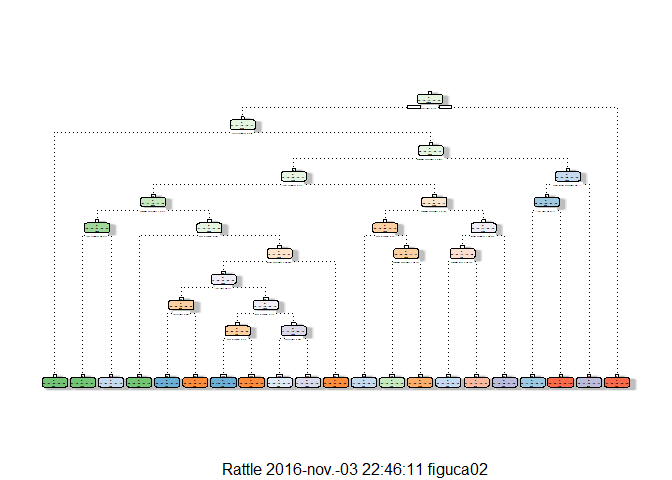
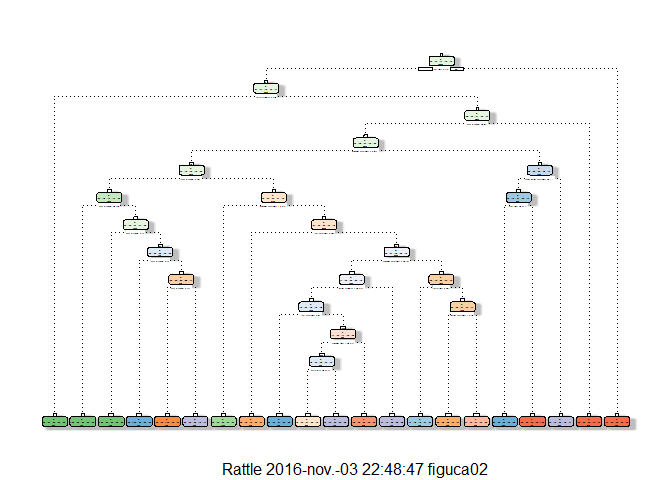
Third try

diff --git a/index.html b/index.html
@@ -140,7 +140,7 @@ names(trainingset)</code></pre>
 <pre class="r"><code>set.seed(1234)
 modelfit&lt;-rpart(classe~., data=trainingset, method=&quot;class&quot;)
 fancyRpartPlot(modelfit)</code></pre>
[2 lines of base64/hex data omitted]
 <p>Predicting on the training dataset:</p>
 <pre class="r"><code>set.seed(1234)
 predictmodelfit&lt;-predict(modelfit, data=trainingset, type=&quot;class&quot;)
@@ -149,33 +149,33 @@ confusionMatrix(predictmodelfit,trainingset$classe)</code></pre>
 ## 
 ##           Reference
 ## Prediction    A    B    C    D    E
-##          A 3357  299   40  114  170
-##          B  264 1775  229  212  267
-##          C   20  160 1923  337  145
-##          D  217  343  138 1509  311
-##          E   48   81   66   80 1632
+##          A 3450  323   96  102   24
+##          B  115 1589  110   48   56
+##          C  183  370 2121  412  193
+##          D  127  288   43 1422  174
+##          E   31   88   26  268 2078
 ## 
 ## Overall Statistics
-##                                           
-##                Accuracy : 0.7422          
-##                  95% CI : (0.7348, 0.7495)
-##     No Information Rate : 0.2843          
-##     P-Value [Acc &gt; NIR] : &lt; 2.2e-16       
-##                                           
-##                   Kappa : 0.6739          
-##  Mcnemar's Test P-Value : &lt; 2.2e-16       
+##                                          
+##                Accuracy : 0.776          
+##                  95% CI : (0.7689, 0.783)
+##     No Information Rate : 0.2843         
+##     P-Value [Acc &gt; NIR] : &lt; 2.2e-16      
+##                                          
+##                   Kappa : 0.7168         
+##  Mcnemar's Test P-Value : &lt; 2.2e-16      
 ## 
 ## Statistics by Class:
 ## 
 ##                      Class: A Class: B Class: C Class: D Class: E
-## Sensitivity            0.8594   0.6678   0.8026   0.6701   0.6463
-## Specificity            0.9366   0.9123   0.9416   0.9121   0.9755
-## Pos Pred Value         0.8435   0.6462   0.7439   0.5993   0.8558
-## Neg Pred Value         0.9437   0.9197   0.9576   0.9338   0.9245
+## Sensitivity            0.8833   0.5978   0.8852   0.6314   0.8230
+## Specificity            0.9446   0.9703   0.8979   0.9450   0.9632
+## Pos Pred Value         0.8636   0.8285   0.6468   0.6923   0.8342
+## Neg Pred Value         0.9532   0.9096   0.9737   0.9290   0.9603
 ## Prevalence             0.2843   0.1935   0.1744   0.1639   0.1838
-## Detection Rate         0.2444   0.1292   0.1400   0.1098   0.1188
-## Detection Prevalence   0.2897   0.2000   0.1882   0.1833   0.1388
-## Balanced Accuracy      0.8980   0.7900   0.8721   0.7911   0.8109</code></pre>
+## Detection Rate         0.2511   0.1157   0.1544   0.1035   0.1513
+## Detection Prevalence   0.2908   0.1396   0.2387   0.1495   0.1813
+## Balanced Accuracy      0.9139   0.7841   0.8916   0.7882   0.8931</code></pre>
 <p>Predicting on the test set:</p>
 <pre class="r"><code>set.seed(1234)
 predicttest&lt;-predict(modelfit, newdata=testingset, type=&quot;class&quot;)
@@ -184,58 +184,58 @@ confusionMatrix(predicttest, testingset$classe)</code></pre>
 ## 
 ##           Reference
 ## Prediction    A    B    C    D    E
-##          A 1407  143   14   33   69
-##          B  142  773  103  103  135
-##          C   11   58  828  139   70
-##          D   86  135   58  646  134
-##          E   28   30   23   43  674
+##          A 1464  167   43   45   14
+##          B   61  647   36   23   21
+##          C   83  156  918  210   85
+##          D   51  136   16  573   72
+##          E   15   33   13  113  890
 ## 
 ## Overall Statistics
-##                                          
-##                Accuracy : 0.7354         
-##                  95% CI : (0.724, 0.7467)
-##     No Information Rate : 0.2845         
-##     P-Value [Acc &gt; NIR] : &lt; 2.2e-16      
-##                                          
-##                   Kappa : 0.6655         
-##  Mcnemar's Test P-Value : &lt; 2.2e-16      
+##                                           
+##                Accuracy : 0.7633          
+##                  95% CI : (0.7522, 0.7741)
+##     No Information Rate : 0.2845          
+##     P-Value [Acc &gt; NIR] : &lt; 2.2e-16       
+##                                           
+##                   Kappa : 0.7005          
+##  Mcnemar's Test P-Value : &lt; 2.2e-16       
 ## 
 ## Statistics by Class:
 ## 
 ##                      Class: A Class: B Class: C Class: D Class: E
-## Sensitivity            0.8405   0.6787   0.8070   0.6701   0.6229
-## Specificity            0.9385   0.8982   0.9428   0.9161   0.9742
-## Pos Pred Value         0.8445   0.6154   0.7486   0.6100   0.8446
-## Neg Pred Value         0.9367   0.9209   0.9586   0.9341   0.9198
-## Prevalence             0.2845   0.1935   0.1743   0.1638   0.1839
-## Detection Rate         0.2391   0.1314   0.1407   0.1098   0.1145
-## Detection Prevalence   0.2831   0.2134   0.1879   0.1799   0.1356
-## Balanced Accuracy      0.8895   0.7884   0.8749   0.7931   0.7986</code></pre>
+## Sensitivity            0.8746   0.5680   0.8947  0.59440   0.8226
+## Specificity            0.9361   0.9703   0.8901  0.94412   0.9638
+## Pos Pred Value         0.8448   0.8211   0.6322  0.67571   0.8365
+## Neg Pred Value         0.9494   0.9035   0.9756  0.92237   0.9602
+## Prevalence             0.2845   0.1935   0.1743  0.16381   0.1839
+## Detection Rate         0.2488   0.1099   0.1560  0.09737   0.1512
+## Detection Prevalence   0.2945   0.1339   0.2467  0.14410   0.1808
+## Balanced Accuracy      0.9053   0.7692   0.8924  0.76926   0.8932</code></pre>
 <p>Now, for the test:</p>
 <pre class="r"><code>set.seed(1234)
 predictnewtest&lt;-predict(modelfit, newdata=testing)
 predictnewtest</code></pre>
-<pre><code>##             A          B           C          D           E
-## 1  0.10894942 0.57976654 0.000000000 0.00000000 0.311284047
-## 2  0.81092695 0.15469613 0.014732965 0.01289134 0.006752609
-## 3  0.02156334 0.56603774 0.231805930 0.08086253 0.099730458
-## 4  0.83137673 0.00000000 0.000000000 0.06616862 0.102454642
-## 5  0.83137673 0.00000000 0.000000000 0.06616862 0.102454642
-## 6  0.01220256 0.07870653 0.632092739 0.18852959 0.088468578
-## 7  0.06951027 0.13902054 0.039494471 0.67298578 0.078988942
-## 8  0.12481962 0.12409812 0.080086580 0.52308802 0.147907648
-## 9  0.99365942 0.00634058 0.000000000 0.00000000 0.000000000
-## 10 0.81092695 0.15469613 0.014732965 0.01289134 0.006752609
-## 11 0.01220256 0.07870653 0.632092739 0.18852959 0.088468578
-## 12 0.02156334 0.56603774 0.231805930 0.08086253 0.099730458
-## 13 0.51612903 0.12903226 0.051612903 0.10000000 0.203225806
-## 14 0.99365942 0.00634058 0.000000000 0.00000000 0.000000000
-## 15 0.07222222 0.15000000 0.122222222 0.14814815 0.507407407
-## 16 0.12481962 0.12409812 0.080086580 0.52308802 0.147907648
-## 17 0.83137673 0.00000000 0.000000000 0.06616862 0.102454642
-## 18 0.11144578 0.40963855 0.009036145 0.31325301 0.156626506
-## 19 0.11144578 0.40963855 0.009036145 0.31325301 0.156626506
-## 20 0.02156334 0.56603774 0.231805930 0.08086253 0.099730458</code></pre>
+<pre><code>##              A           B          C          D          E
+## 1  0.000000000 1.000000000 0.00000000 0.00000000 0.00000000
+## 2  0.652624757 0.203499676 0.06221646 0.06610499 0.01555412
+## 3  0.178631052 0.275459098 0.31051753 0.08013356 0.15525876
+## 4  1.000000000 0.000000000 0.00000000 0.00000000 0.00000000
+## 5  1.000000000 0.000000000 0.00000000 0.00000000 0.00000000
+## 6  0.025326170 0.042210284 0.63699156 0.22716807 0.06830391
+## 7  0.124000000 0.164000000 0.03500000 0.63700000 0.04000000
+## 8  0.124000000 0.164000000 0.03500000 0.63700000 0.04000000
+## 9  0.991964286 0.008035714 0.00000000 0.00000000 0.00000000
+## 10 0.652624757 0.203499676 0.06221646 0.06610499 0.01555412
+## 11 0.025326170 0.042210284 0.63699156 0.22716807 0.06830391
+## 12 0.178631052 0.275459098 0.31051753 0.08013356 0.15525876
+## 13 0.007792208 0.194805195 0.06753247 0.23116883 0.49870130
+## 14 0.991964286 0.008035714 0.00000000 0.00000000 0.00000000
+## 15 0.043103448 0.037356322 0.00000000 0.24137931 0.67816092
+## 16 0.043103448 0.037356322 0.00000000 0.24137931 0.67816092
+## 17 1.000000000 0.000000000 0.00000000 0.00000000 0.00000000
+## 18 0.652624757 0.203499676 0.06221646 0.06610499 0.01555412
+## 19 0.000000000 1.000000000 0.00000000 0.00000000 0.00000000
+## 20 0.077702703 0.824324324 0.01013514 0.05067568 0.03716216</code></pre>
 </div>
 
 

diff --git a/index.md b/index.md
@@ -125,33 +125,33 @@ confusionMatrix(predictmodelfit,trainingset$classe)
 ## 
 ##           Reference
 ## Prediction    A    B    C    D    E
-##          A 3357  299   40  114  170
-##          B  264 1775  229  212  267
-##          C   20  160 1923  337  145
-##          D  217  343  138 1509  311
-##          E   48   81   66   80 1632
+##          A 3450  323   96  102   24
+##          B  115 1589  110   48   56
+##          C  183  370 2121  412  193
+##          D  127  288   43 1422  174
+##          E   31   88   26  268 2078
 ## 
 ## Overall Statistics
-##                                           
-##                Accuracy : 0.7422          
-##                  95% CI : (0.7348, 0.7495)
-##     No Information Rate : 0.2843          
-##     P-Value [Acc > NIR] : < 2.2e-16       
-##                                           
-##                   Kappa : 0.6739          
-##  Mcnemar's Test P-Value : < 2.2e-16       
+##                                          
+##                Accuracy : 0.776          
+##                  95% CI : (0.7689, 0.783)
+##     No Information Rate : 0.2843         
+##     P-Value [Acc > NIR] : < 2.2e-16      
+##                                          
+##                   Kappa : 0.7168         
+##  Mcnemar's Test P-Value : < 2.2e-16      
 ## 
 ## Statistics by Class:
 ## 
 ##                      Class: A Class: B Class: C Class: D Class: E
-## Sensitivity            0.8594   0.6678   0.8026   0.6701   0.6463
-## Specificity            0.9366   0.9123   0.9416   0.9121   0.9755
-## Pos Pred Value         0.8435   0.6462   0.7439   0.5993   0.8558
-## Neg Pred Value         0.9437   0.9197   0.9576   0.9338   0.9245
+## Sensitivity            0.8833   0.5978   0.8852   0.6314   0.8230
+## Specificity            0.9446   0.9703   0.8979   0.9450   0.9632
+## Pos Pred Value         0.8636   0.8285   0.6468   0.6923   0.8342
+## Neg Pred Value         0.9532   0.9096   0.9737   0.9290   0.9603
 ## Prevalence             0.2843   0.1935   0.1744   0.1639   0.1838
-## Detection Rate         0.2444   0.1292   0.1400   0.1098   0.1188
-## Detection Prevalence   0.2897   0.2000   0.1882   0.1833   0.1388
-## Balanced Accuracy      0.8980   0.7900   0.8721   0.7911   0.8109
+## Detection Rate         0.2511   0.1157   0.1544   0.1035   0.1513
+## Detection Prevalence   0.2908   0.1396   0.2387   0.1495   0.1813
+## Balanced Accuracy      0.9139   0.7841   0.8916   0.7882   0.8931
 ```
 
 
@@ -169,33 +169,33 @@ confusionMatrix(predicttest, testingset$classe)
 ## 
 ##           Reference
 ## Prediction    A    B    C    D    E
-##          A 1407  143   14   33   69
-##          B  142  773  103  103  135
-##          C   11   58  828  139   70
-##          D   86  135   58  646  134
-##          E   28   30   23   43  674
+##          A 1464  167   43   45   14
+##          B   61  647   36   23   21
+##          C   83  156  918  210   85
+##          D   51  136   16  573   72
+##          E   15   33   13  113  890
 ## 
 ## Overall Statistics
-##                                          
-##                Accuracy : 0.7354         
-##                  95% CI : (0.724, 0.7467)
-##     No Information Rate : 0.2845         
-##     P-Value [Acc > NIR] : < 2.2e-16      
-##                                          
-##                   Kappa : 0.6655         
-##  Mcnemar's Test P-Value : < 2.2e-16      
+##                                           
+##                Accuracy : 0.7633          
+##                  95% CI : (0.7522, 0.7741)
+##     No Information Rate : 0.2845          
+##     P-Value [Acc > NIR] : < 2.2e-16       
+##                                           
+##                   Kappa : 0.7005          
+##  Mcnemar's Test P-Value : < 2.2e-16       
 ## 
 ## Statistics by Class:
 ## 
 ##                      Class: A Class: B Class: C Class: D Class: E
-## Sensitivity            0.8405   0.6787   0.8070   0.6701   0.6229
-## Specificity            0.9385   0.8982   0.9428   0.9161   0.9742
-## Pos Pred Value         0.8445   0.6154   0.7486   0.6100   0.8446
-## Neg Pred Value         0.9367   0.9209   0.9586   0.9341   0.9198
-## Prevalence             0.2845   0.1935   0.1743   0.1638   0.1839
-## Detection Rate         0.2391   0.1314   0.1407   0.1098   0.1145
-## Detection Prevalence   0.2831   0.2134   0.1879   0.1799   0.1356
-## Balanced Accuracy      0.8895   0.7884   0.8749   0.7931   0.7986
+## Sensitivity            0.8746   0.5680   0.8947  0.59440   0.8226
+## Specificity            0.9361   0.9703   0.8901  0.94412   0.9638
+## Pos Pred Value         0.8448   0.8211   0.6322  0.67571   0.8365
+## Neg Pred Value         0.9494   0.9035   0.9756  0.92237   0.9602
+## Prevalence             0.2845   0.1935   0.1743  0.16381   0.1839
+## Detection Rate         0.2488   0.1099   0.1560  0.09737   0.1512
+## Detection Prevalence   0.2945   0.1339   0.2467  0.14410   0.1808
+## Balanced Accuracy      0.9053   0.7692   0.8924  0.76926   0.8932
 ```
 
 
@@ -209,25 +209,25 @@ predictnewtest
 ```
 
 ```
-##             A          B           C          D           E
-## 1  0.10894942 0.57976654 0.000000000 0.00000000 0.311284047
-## 2  0.81092695 0.15469613 0.014732965 0.01289134 0.006752609
-## 3  0.02156334 0.56603774 0.231805930 0.08086253 0.099730458
-## 4  0.83137673 0.00000000 0.000000000 0.06616862 0.102454642
-## 5  0.83137673 0.00000000 0.000000000 0.06616862 0.102454642
-## 6  0.01220256 0.07870653 0.632092739 0.18852959 0.088468578
-## 7  0.06951027 0.13902054 0.039494471 0.67298578 0.078988942
-## 8  0.12481962 0.12409812 0.080086580 0.52308802 0.147907648
-## 9  0.99365942 0.00634058 0.000000000 0.00000000 0.000000000
-## 10 0.81092695 0.15469613 0.014732965 0.01289134 0.006752609
-## 11 0.01220256 0.07870653 0.632092739 0.18852959 0.088468578
-## 12 0.02156334 0.56603774 0.231805930 0.08086253 0.099730458
-## 13 0.51612903 0.12903226 0.051612903 0.10000000 0.203225806
-## 14 0.99365942 0.00634058 0.000000000 0.00000000 0.000000000
-## 15 0.07222222 0.15000000 0.122222222 0.14814815 0.507407407
-## 16 0.12481962 0.12409812 0.080086580 0.52308802 0.147907648
-## 17 0.83137673 0.00000000 0.000000000 0.06616862 0.102454642
-## 18 0.11144578 0.40963855 0.009036145 0.31325301 0.156626506
-## 19 0.11144578 0.40963855 0.009036145 0.31325301 0.156626506
-## 20 0.02156334 0.56603774 0.231805930 0.08086253 0.099730458
+##              A           B          C          D          E
+## 1  0.000000000 1.000000000 0.00000000 0.00000000 0.00000000
+## 2  0.652624757 0.203499676 0.06221646 0.06610499 0.01555412
+## 3  0.178631052 0.275459098 0.31051753 0.08013356 0.15525876
+## 4  1.000000000 0.000000000 0.00000000 0.00000000 0.00000000
+## 5  1.000000000 0.000000000 0.00000000 0.00000000 0.00000000
+## 6  0.025326170 0.042210284 0.63699156 0.22716807 0.06830391
+## 7  0.124000000 0.164000000 0.03500000 0.63700000 0.04000000
+## 8  0.124000000 0.164000000 0.03500000 0.63700000 0.04000000
+## 9  0.991964286 0.008035714 0.00000000 0.00000000 0.00000000
+## 10 0.652624757 0.203499676 0.06221646 0.06610499 0.01555412
+## 11 0.025326170 0.042210284 0.63699156 0.22716807 0.06830391
+## 12 0.178631052 0.275459098 0.31051753 0.08013356 0.15525876
+## 13 0.007792208 0.194805195 0.06753247 0.23116883 0.49870130
+## 14 0.991964286 0.008035714 0.00000000 0.00000000 0.00000000
+## 15 0.043103448 0.037356322 0.00000000 0.24137931 0.67816092
+## 16 0.043103448 0.037356322 0.00000000 0.24137931 0.67816092
+## 17 1.000000000 0.000000000 0.00000000 0.00000000 0.00000000
+## 18 0.652624757 0.203499676 0.06221646 0.06610499 0.01555412
+## 19 0.000000000 1.000000000 0.00000000 0.00000000 0.00000000
+## 20 0.077702703 0.824324324 0.01013514 0.05067568 0.03716216
 ```
